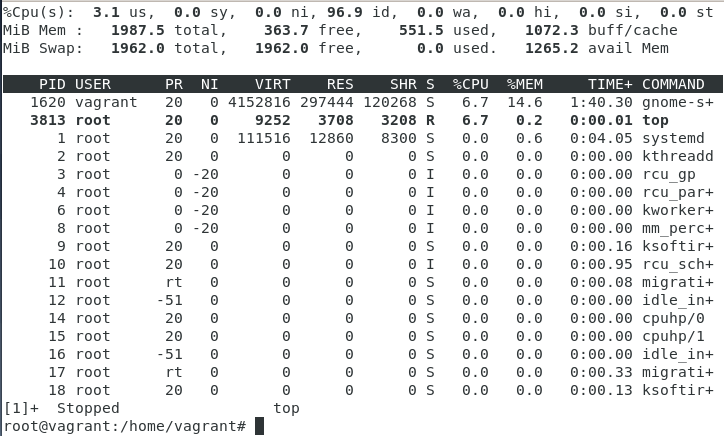
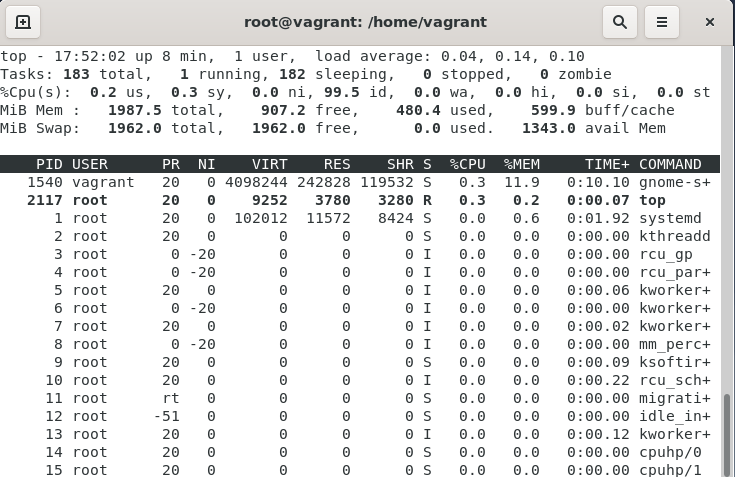
fixed task 14

diff --git a/03.02.terminal/README.md b/03.02.terminal/README.md
@@ -5,7 +5,10 @@
 ![](img/type_cd.png)
 
 ```
-   Команда cd встроена в shell. При вызове внешней программы операционная система запускает отдельный процесс, в то время как встроенная программа является частью самой программы оболочки и будет иметь намного меньшие издержки. Эти издержки незначительны, но если вы команду выполнять много раз, это может оказать влияние на производительность.
+   Команда cd встроена в shell. При вызове внешней программы операционная система запускает
+отдельный процесс, в то время как встроенная программа является частью самой программы
+оболочки и будет иметь намного меньшие издержки. Эти издержки незначительны, но если вы
+команду выполнять много раз, это может оказать влияние на производительность.
 ```
 
 2. Какая альтернатива без pipe команде grep `<some_string> <some_file> | wc -l`? `man grep` поможет в ответе на этот вопрос.
@@ -70,9 +73,20 @@ not a tty
 
 13. Бывает, что есть необходимость переместить запущенный процесс из одной сессии в другую. Попробуйте сделать это, воспользовавшись `reptyr`. Например, так можно перенести в `screen` процесс, который вы запустили по ошибке в обычной `SSH`-сессии.
 
+   * запускаем `top`
+
 ![](img/reptyr_1.png)
+
+   * останавливаем `top`, запускаем в фоне и изолируем дочерний процесс от родительского
+   
 ![](img/reptyr_2.png)
+
+   * запускаем `screen`
+   
 ![](img/reptyr_3.png)
+
+   * возобновляем работу `top`
+
 ![](img/reptyr_4.png)
 
 14. `sudo echo string > /root/new_file` не даст выполнить перенаправление под обычным пользователем, так как перенаправлением занимается процесс `shell`'а, который запущен без `sudo` под вашим пользователем. Для решения данной проблемы можно использовать конструкцию `echo string | sudo tee /root/new_file`. Узнайте что делает команда `tee` и почему в отличие от `sudo echo` команда с `sudo tee` будет работать.
